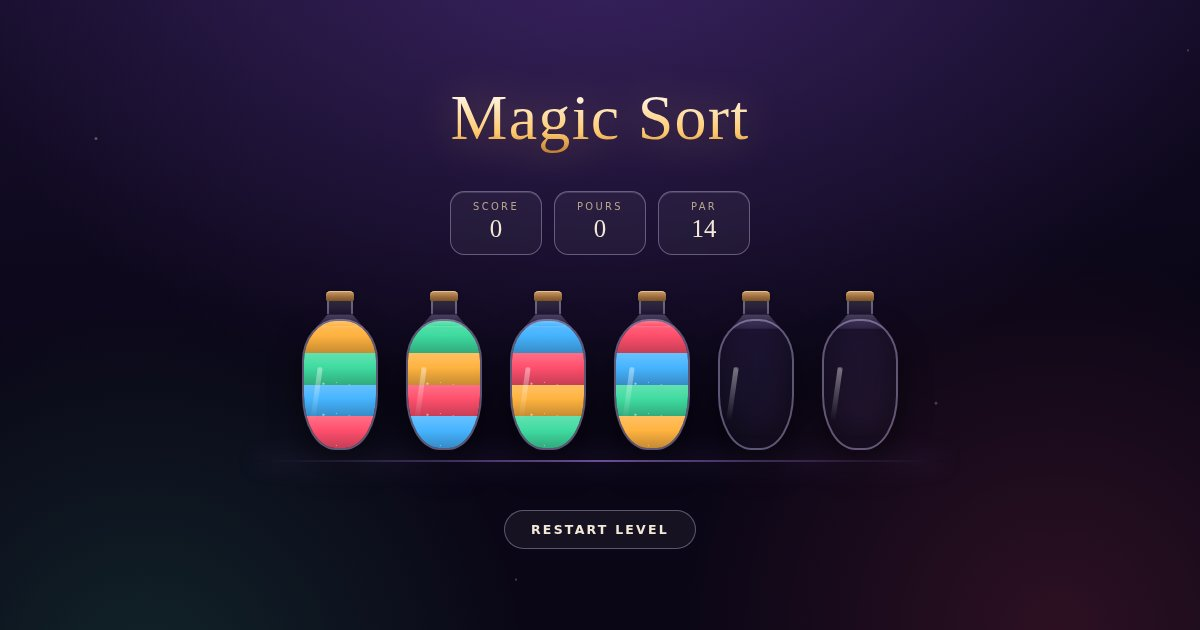
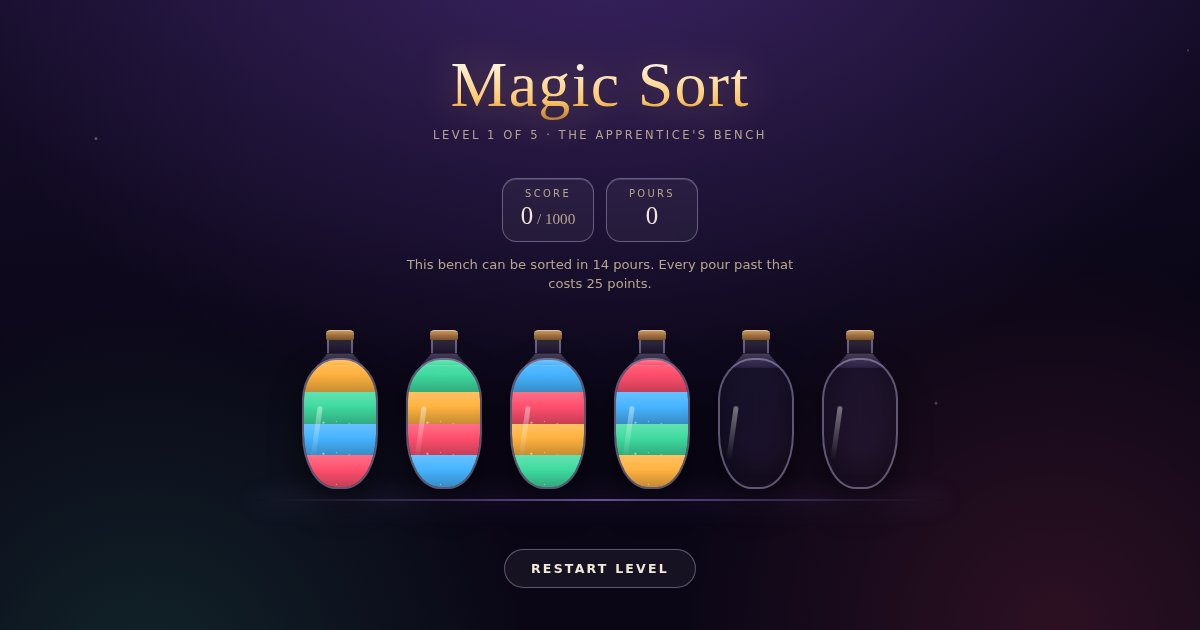
chore(page): reshoot the link preview for the scoreboard it has now
The card is a screenshot of the real bench, so the scoreboard changing
dated it: it still showed a score with no ceiling and no sign that the
atelier has five benches. Regenerated, and the alt text now describes
the level line and the score out of 1000 that a reader would see.

diff --git a/index.html b/index.html
@@ -36,7 +36,7 @@
     <meta property="og:image:height" content="630" />
     <meta
       property="og:image:alt"
-      content="The Magic Sort atelier: six glass flasks on a stone bench under the game's title, four layered with amber, azure, crimson and green elixir and two still empty."
+      content="The Magic Sort atelier: the game's title, the line Level 1 of 5, The Apprentice's Bench, a score of 0 out of 1000, and six glass flasks on a bench — four layered with amber, azure, crimson and green elixir, two still empty."
     />
     <meta name="twitter:card" content="summary_large_image" />
     <meta name="twitter:title" content="Magic Sort" />
@@ -50,7 +50,7 @@
     />
     <meta
       name="twitter:image:alt"
-      content="The Magic Sort atelier: six glass flasks on a stone bench under the game's title, four layered with amber, azure, crimson and green elixir and two still empty."
+      content="The Magic Sort atelier: the game's title, the line Level 1 of 5, The Apprentice's Bench, a score of 0 out of 1000, and six glass flasks on a bench — four layered with amber, azure, crimson and green elixir, two still empty."
     />
   </head>
   <body>
